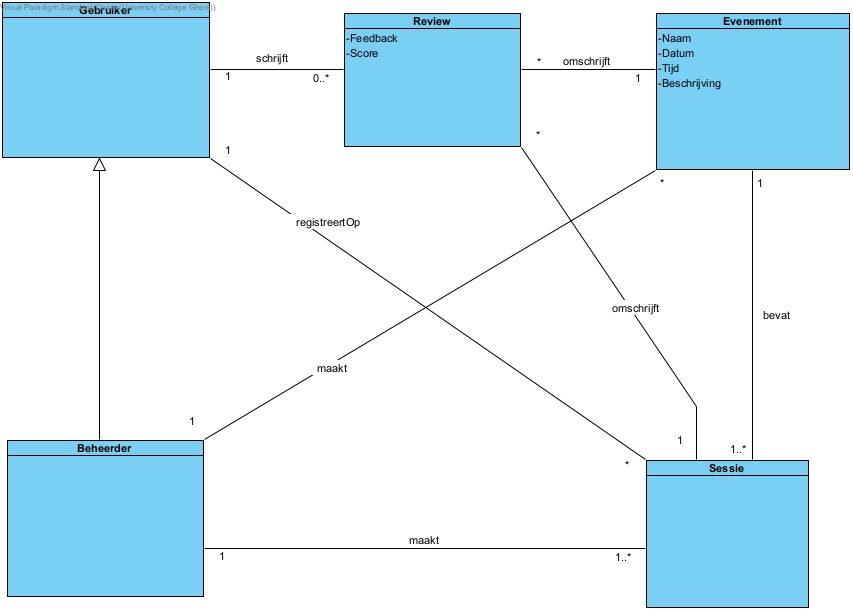
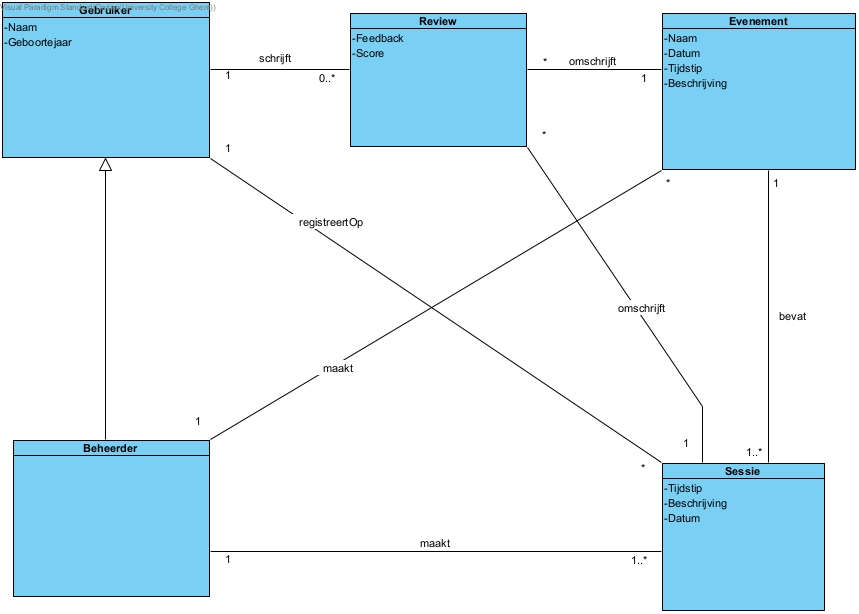
update vragen en domeinmodel

diff --git a/vragenSprint0.md b/vragenSprint0.md
@@ -1,6 +1,6 @@
-- User: moet geregistreerd zijn om events te bekijken en te boeken? Of eender wie kan events bekijken en moet pas registreren als die event wil boeken?
+- User: moet geregistreerd zijn om events te bekijken en te boeken? Of eender wie kan events bekijken en moet pas registreren als die event wil boeken.
 
-- Bestaat event altijd uit  1 of meerdere sessies?
+- Bestaat event altijd uit 1 of meerdere sessies?
 
 - Sessies moeten toegevoegd kunnen worden na aanmaak event?
 
@@ -9,6 +9,8 @@
 - Welke info is nodig van een gebruiker?
 
 - Zowel event als onderliggende sessie moet een review kunnen krijgen of enkel sessies?
+
+- Zijn de attributen correct voor gebruiker, event, sessie, review? of moet er nog iets ander bijgehouden worden? Moeten er voor de beheerder nog unieke attributen bijgehouden worden?
 
 
  
